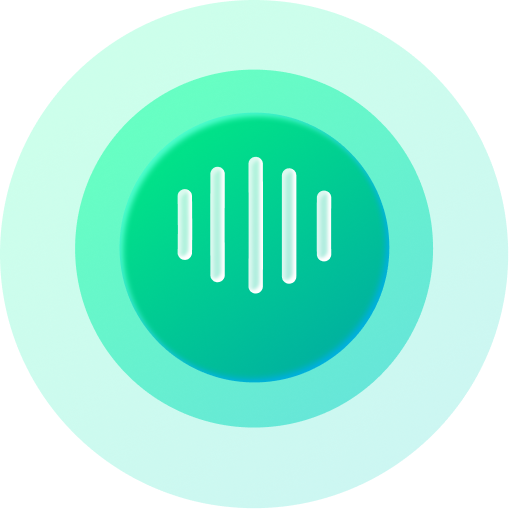
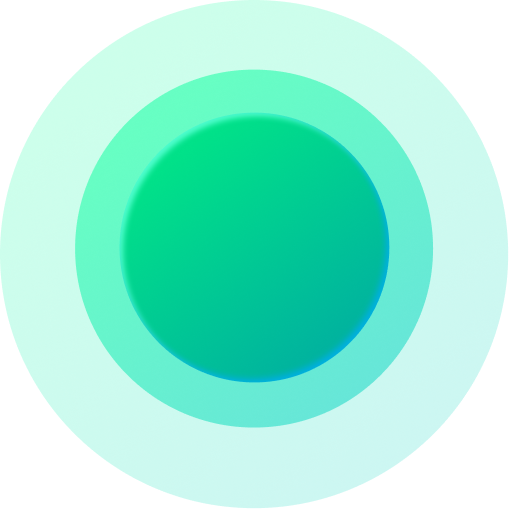
community-commit-6

diff --git a/TL-PestIdentify/TL_Community/TLWVoiceInputView.m b/TL-PestIdentify/TL_Community/TLWVoiceInputView.m
@@ -63,23 +63,8 @@ static CGFloat const kEqualizerBarMaxHeight = 48.0;
 #pragma mark - Setup
 
 - (void)tl_setupBackground {
-  self.backgroundColor = [UIColor colorWithRed:0.4 green:0.55 blue:0.5 alpha:0.3];
-  UIImage *bgImage = [UIImage imageNamed:@"hp_backView.png"];
-  if (bgImage) {
-    UIImageView *bgImageView = [[UIImageView alloc] initWithImage:bgImage];
-    bgImageView.contentMode = UIViewContentModeScaleAspectFill;
-    bgImageView.clipsToBounds = YES;
-    [self addSubview:bgImageView];
-    [bgImageView mas_makeConstraints:^(MASConstraintMaker *make) {
-      make.edges.equalTo(self);
-    }];
-  }
-  UIVisualEffectView *blurView = [[UIVisualEffectView alloc] initWithEffect:[UIBlurEffect effectWithStyle:UIBlurEffectStyleDark]];
-  blurView.alpha = 0.4;
-  [self addSubview:blurView];
-  [blurView mas_makeConstraints:^(MASConstraintMaker *make) {
-    make.edges.equalTo(self);
-  }];
+  UIImage* image = [UIImage imageNamed:@"cp_backView.png"];
+  self.layer.contents = (__bridge id)image.CGImage;
 }
 
 - (void)tl_setupHeader {
@@ -93,10 +78,8 @@ static CGFloat const kEqualizerBarMaxHeight = 48.0;
   }];
 
   UIButton *backBtn = [UIButton buttonWithType:UIButtonTypeCustom];
-  backBtn.backgroundColor = [UIColor colorWithWhite:0.9 alpha:0.95];
-  backBtn.layer.cornerRadius = 20.0;
   backBtn.clipsToBounds = YES;
-  UIImage *backImage = [UIImage imageNamed:@"cp_back"];
+  UIImage *backImage = [UIImage imageNamed:@"iconBack"];
   if (backImage) {
     [backBtn setImage:backImage forState:UIControlStateNormal];
   } else {
@@ -159,22 +142,14 @@ static CGFloat const kEqualizerBarMaxHeight = 48.0;
 }
 
 - (void)tl_updateHeaderGradient {
-  if (!self.headerGradientContainer || self.headerGradientContainer.bounds.size.height < 1) return;
-  for (CALayer *layer in self.headerGradientContainer.layer.sublayers) {
+  // 顶部背景改为透明：移除已有渐变图层，不再叠加新的背景
+  if (!self.headerGradientContainer) return;
+  NSArray<CALayer *> *sublayers = [self.headerGradientContainer.layer.sublayers copy];
+  for (CALayer *layer in sublayers) {
     if ([layer isKindOfClass:[CAGradientLayer class]]) {
       [layer removeFromSuperlayer];
-      break;
     }
   }
-  CAGradientLayer *gradient = [CAGradientLayer layer];
-  gradient.frame = self.headerGradientContainer.bounds;
-  gradient.colors = @[
-    (id)[UIColor colorWithRed:0.22 green:0.6 blue:0.58 alpha:1.0].CGColor,
-    (id)[UIColor colorWithRed:0.45 green:0.75 blue:0.82 alpha:1.0].CGColor
-  ];
-  gradient.startPoint = CGPointMake(0, 0.5);
-  gradient.endPoint = CGPointMake(1, 0.5);
-  [self.headerGradientContainer.layer insertSublayer:gradient atIndex:0];
 }
 
 - (void)tl_setupCenterIndicator {
@@ -183,10 +158,7 @@ static CGFloat const kEqualizerBarMaxHeight = 48.0;
   [self addSubview:container];
   self.centerCircleContainer = container;
 
-  UIView *circleBg = [[UIView alloc] init];
-  circleBg.layer.cornerRadius = kCenterCircleSize / 2.0;
-  circleBg.clipsToBounds = YES;
-  circleBg.tag = 100;
+  UIImageView* circleBg = [[UIImageView alloc] initWithImage:[UIImage imageNamed:@"cp_voiceload.png"]];
   [container addSubview:circleBg];
 
   NSMutableArray<UIView *> *bars = [NSMutableArray arrayWithCapacity:4];
@@ -221,14 +193,14 @@ static CGFloat const kEqualizerBarMaxHeight = 48.0;
     UIView *bar = bars[i];
     CGFloat x = startX + i * (kEqualizerBarWidth + kEqualizerBarSpacing);
     [bar mas_makeConstraints:^(MASConstraintMaker *make) {
-      make.centerX.equalTo(container.mas_left).offset(x);
+      make.centerX.equalTo(container.mas_left).offset(x - 6);
       make.centerY.equalTo(container).offset(-12);
       make.width.mas_equalTo(kEqualizerBarWidth);
       make.height.mas_equalTo(kEqualizerBarMaxHeight * (0.4 + (i % 3) * 0.25));
     }];
   }
   [label mas_makeConstraints:^(MASConstraintMaker *make) {
-    make.top.equalTo(container.mas_centerY).offset(8);
+    make.top.equalTo(container.mas_centerY).offset(12);
     make.centerX.equalTo(container);
   }];
 }
@@ -282,10 +254,8 @@ static CGFloat const kEqualizerBarMaxHeight = 48.0;
 
 - (void)tl_setupBottomHint {
   UIButton *micBtn = [UIButton buttonWithType:UIButtonTypeCustom];
-  micBtn.backgroundColor = [UIColor colorWithWhite:0.92 alpha:0.95];
-  micBtn.layer.cornerRadius = 28.0;
   micBtn.clipsToBounds = YES;
-  UIImage *micImg = [UIImage imageNamed:@"cp_voice.png"];
+  UIImage *micImg = [UIImage imageNamed:@"cp_voiceInput.png"];
   if (micImg) {
     [micBtn setImage:micImg forState:UIControlStateNormal];
     micBtn.tintColor = [UIColor darkGrayColor];
@@ -295,20 +265,11 @@ static CGFloat const kEqualizerBarMaxHeight = 48.0;
   [self addSubview:micBtn];
   self.longPressMicButton = micBtn;
 
-  UILabel *hint = [[UILabel alloc] init];
-  hint.text = @"长按语音输入";
-  hint.textColor = [UIColor colorWithWhite:1.0 alpha:0.9];
-  hint.font = [UIFont systemFontOfSize:14];
-  [self addSubview:hint];
-
   [micBtn mas_makeConstraints:^(MASConstraintMaker *make) {
     make.centerX.equalTo(self);
     make.bottom.equalTo(self.mas_safeAreaLayoutGuideBottom).offset(-56);
-    make.width.height.mas_equalTo(56);
-  }];
-  [hint mas_makeConstraints:^(MASConstraintMaker *make) {
-    make.top.equalTo(micBtn.mas_bottom).offset(10);
-    make.centerX.equalTo(self);
+    make.height.mas_equalTo(131.63);
+    make.width.mas_equalTo(101.37);
   }];
 }
 

diff --git a/TL-PestIdentify/TL_Community/TLWCommunityView.m b/TL-PestIdentify/TL_Community/TLWCommunityView.m
@@ -126,15 +126,15 @@ static NSInteger const kTagItemsPerRow = 5;
   }];
 
   [searchIcon mas_makeConstraints:^(MASConstraintMaker *make) {
-    make.left.equalTo(searchFieldBackground).offset(12);
+    make.left.equalTo(searchFieldBackground).offset(8);
     make.centerY.equalTo(searchFieldBackground);
-    make.width.height.mas_equalTo(18);
+    make.width.height.mas_equalTo(32);
   }];
 
   [voiceButton mas_makeConstraints:^(MASConstraintMaker *make) {
-    make.right.equalTo(searchFieldBackground).offset(-12);
+    make.right.equalTo(searchFieldBackground).offset(-8);
     make.centerY.equalTo(searchFieldBackground);
-    make.width.height.mas_equalTo(18);
+    make.width.height.mas_equalTo(32);
   }];
 
   [textField mas_makeConstraints:^(MASConstraintMaker *make) {
@@ -153,7 +153,7 @@ static NSInteger const kTagItemsPerRow = 5;
   layout.sectionInset = UIEdgeInsetsMake(12, kHorizontalInset, 20, kHorizontalInset);
 
   UICollectionView *collectionView = [[UICollectionView alloc] initWithFrame:CGRectZero collectionViewLayout:layout];
-  collectionView.backgroundColor = [UIColor systemGroupedBackgroundColor];
+  collectionView.backgroundColor = [UIColor whiteColor];
   collectionView.showsVerticalScrollIndicator = NO;
   collectionView.layer.masksToBounds = YES;
   collectionView.layer.cornerRadius = 20;

diff --git a/TL-PestIdentify/TL_Community/TLWVoiceInputViewController.m b/TL-PestIdentify/TL_Community/TLWVoiceInputViewController.m
@@ -17,6 +17,12 @@
 - (void)loadView {
   self.view = [[TLWVoiceInputView alloc] initWithFrame:UIScreen.mainScreen.bounds];
   self.voiceView = (TLWVoiceInputView *)self.view;
+  UITapGestureRecognizer* tap =  [[UITapGestureRecognizer alloc] initWithTarget:self action:@selector(tl_hideKeyboard)];
+  [self.voiceView addGestureRecognizer:tap];
+}
+
+-(void)tl_hideKeyboard {
+  [self.voiceView endEditing:YES];
 }
 
 - (void)viewDidLoad {
